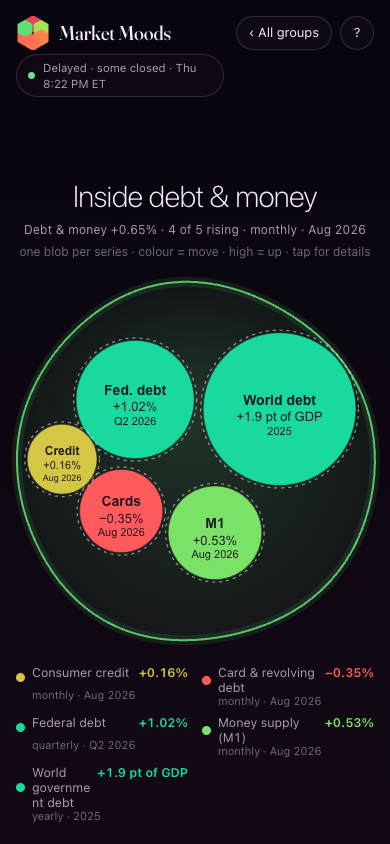
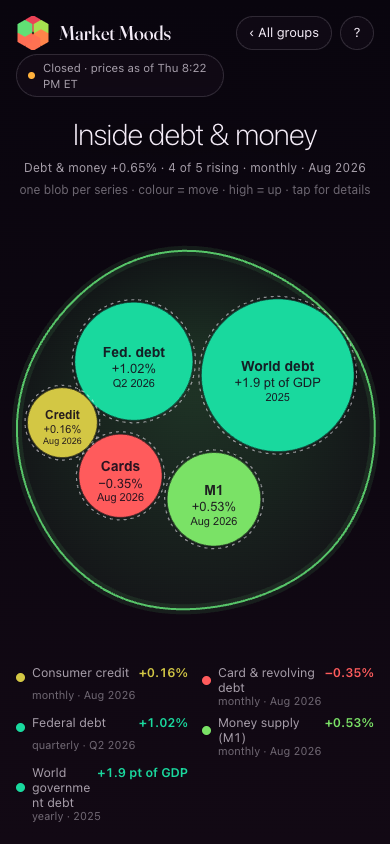
layout: resize overlap fix part 1 (Clark 10-08) — shared Mood.dodge label floor, short/wide header rule, economy per-group fields, lane-capped thumb floor, crest filter baked for WebKit; overlap sweep leg in browser-check (320→1920/40px + short windows)
Panel 5/8/6 FAIL: stage labels still land on neighbour blobs at 560–880 and 844x390; card names truncate at 641–900. Fixture day-drift red predates this (same on HEAD).

Changed region(s): [[0.0308, 0.154, 0.9846, 0.7701], [0.1231, 0.0616, 0.5231, 0.1232], [0.0615, 0.0616, 0.0923, 0.0924]]

diff --git a/index.html b/index.html
@@ -32,13 +32,16 @@
   body.incell canvas#lamp { visibility: hidden; }
   body.incell canvas#cell { pointer-events: auto; }
   body.incell .mood, body.incell .tags, body.incell .readouts { display: none; }
-  .chrome { position: fixed; inset: 0; pointer-events: none; transition: opacity .6s ease; }
+  /* LAYOUT (Clark 10-08 "everything overlaps" when a laptop window is resized): header, mood caption, stage and footer
+     STACK in one column, each taking its real height, so no block can sit on another at any width or height.
+     The lamp reads the stage between them (travel()). Was: each block absolutely placed at a guessed top: 11% / 180px. */
+  .chrome { position: fixed; inset: 0; pointer-events: none; display: flex; flex-direction: column; transition: opacity .6s ease; }
   body.bare .chrome { opacity: 0; }
   body.bare .chrome * { pointer-events: none !important; }
   .chrome > * { pointer-events: auto; }
   .num { font-variant-numeric: tabular-nums; }
 
-  header { position: absolute; top: 0; left: 0; right: 0; display: flex; align-items: flex-start; justify-content: space-between;
+  header { position: relative; flex: none; display: flex; align-items: flex-start; justify-content: space-between;
     gap: 12px; padding: max(16px, env(safe-area-inset-top)) 16px 0; pointer-events: none; }
   header > * { pointer-events: auto; }
   .brand { display: flex; flex-direction: column; gap: 6px; min-width: 0; }
@@ -50,12 +53,12 @@
   .brand .tag { font-size: 11px; font-weight: 500; letter-spacing: .22em; text-transform: uppercase; color: var(--ink-3); margin-top: -2px; }
   .credit { display: flex; align-items: center; gap: 12px; flex: 1 1 auto; min-width: 0; justify-content: center; text-align: left;
     padding: 2px 8px 0; font-size: 14px; line-height: 1.3; color: var(--ink-2); text-decoration: none; }
-  .credit img { height: 60px; width: auto; flex: none; filter: invert(1) brightness(1.2); }
+  .credit img { height: 60px; width: auto; flex: none; }   /* the crest file is light ink already: a CSS filter drew it black in WebKit (10-08) */
   .credit span { max-width: 34ch; text-decoration: underline; text-decoration-color: var(--ink-3); text-underline-offset: 3px; }
   .credit:hover span, .credit:focus-visible span { color: var(--ink); text-decoration-color: var(--ink); }
   .credit:focus-visible { outline: 2px solid var(--ink); outline-offset: 2px; border-radius: 6px; }
   body.incell .credit { display: none; }
-  @media (max-width: 900px) { header { flex-wrap: wrap; } .brand { flex: 1 1 0; } .tools { flex: none; } .status { white-space: normal; }
+  @media (max-width: 900px) { header { flex-wrap: wrap; } .brand { flex: 1 1 0; min-width: min-content; } .tools { flex: none; } .status { white-space: normal; }
     .credit { order: 3; flex-basis: 100%; justify-content: flex-start; padding: 6px 0 0; font-size: 12px; } .credit img { height: 48px; } .credit span { max-width: none; } }
   @media (max-width: 520px) { .brand .mark { width: 34px; height: 34px; } .brand h1 { font-size: 20px; white-space: nowrap; } .brand .tag { display: none; } .brand { gap: 4px; } .credit img { height: 44px; } .credit { font-size: 12px; } }
   .status { display: inline-flex; align-items: center; gap: 8px; font-size: 12.5px; color: var(--ink-2);
@@ -74,7 +77,7 @@
   .btn:focus-visible { outline: 2px solid var(--ink); outline-offset: 2px; }
   .btn svg { width: 14px; height: 14px; fill: currentColor; }
 
-  .mood { position: absolute; left: 0; right: 0; top: 11%; text-align: center; pointer-events: none; }
+  .mood { position: relative; flex: none; margin-top: clamp(4px, 2.5vh, 28px); text-align: center; pointer-events: none; }
   .mood .word { font-size: clamp(38px, 7vw, 76px); font-weight: 200; letter-spacing: -.02em; line-height: 1;
     text-shadow: 0 2px 30px rgba(0, 0, 0, .5); transition: color 1.2s ease; }
   .mood .sub { margin-top: 10px; font-size: 13px; color: var(--ink-2); letter-spacing: .04em; }
@@ -91,9 +94,9 @@
   .fam span { position: absolute; transform: translate(-50%, 0); font-size: 12px; letter-spacing: .16em; text-transform: uppercase; color: var(--ink); opacity: .9; white-space: nowrap;
     padding-bottom: 4px; border-bottom: 1px solid rgba(255, 255, 255, .14); }
   .fam.stacked { display: none; }   /* phone: the two rows split stocks (top) from the economy (bottom); a caption there hit the index labels */
-  @media (max-width: 480px) { .tags span.econ { white-space: normal; max-width: 12.5vw; font-size: 9.5px; letter-spacing: 0; line-height: 1.15; text-align: center; } }   /* fits its 1/8 lane: no label leans on a neighbour, so none is pushed down */   /* "CENTRAL BANKS" wraps inside its lane, never into a neighbour */
+  .tags[data-lanes] span.econ { white-space: normal; max-width: 12.5vw; font-size: min(9.5px, 2.43vw); letter-spacing: 0; line-height: 1.15; text-align: center; }   /* [data-lanes] = the JS's 8-lane phone layout (fam.stacked), not a guessed width: fits its 1/8 lane: no label leans on a neighbour, so none is pushed down */   /* "CENTRAL BANKS" wraps inside its lane, never into a neighbour */
   body.incell .fam { display: none; }
-  .cellcap { position: absolute; left: 0; right: 0; top: 11%; text-align: center; pointer-events: none; display: none; }
+  .cellcap { position: relative; flex: none; margin-top: clamp(4px, 2.5vh, 28px); text-align: center; pointer-events: none; display: none; }
   body.incell .cellcap { display: block; }
   .cellcap .word { font-size: clamp(30px, 5.4vw, 58px); font-weight: 200; letter-spacing: -.02em; line-height: 1.05;
     text-shadow: 0 2px 30px rgba(0, 0, 0, .5); }
@@ -146,7 +149,7 @@
   .tags span { position: absolute; transform: translate(-50%, 0); font-size: 11px; letter-spacing: .08em; text-transform: uppercase;
     color: var(--ink); white-space: nowrap; transition: bottom .25s linear; visibility: hidden; text-shadow: 0 1px 6px rgba(0, 0, 0, .8); }   /* r6: stock labels in full ink; economy labels wear their blob's tint */
 
-  footer { position: absolute; left: 0; right: 0; bottom: 0; padding: 0 16px max(16px, env(safe-area-inset-bottom)); }
+  footer { position: relative; flex: none; margin-top: auto; padding: 0 16px max(16px, env(safe-area-inset-bottom)); }
   .days { display: flex; gap: 6px; margin-bottom: 10px; flex-wrap: wrap; }
   .days[hidden] { display: none; }
   .btn[hidden] { display: none; }
@@ -211,14 +214,12 @@
     .idx .chop { display: none; }
     .idx .look { padding: 3px 8px; font-size: 11.5px; }
     .btn .lbl { display: none; }
-    .mood { top: max(15%, 180px); }
     .mood .key { font-size: 11px; }
     .mood .key .long { display: none; }
     .mood .key .short { display: inline; }
     .idx .long { display: none; }
     .idx .short { display: inline; }
     .status { font-size: 11.5px; }
-    .cellcap { top: max(12%, 150px); }
     .cellcap .sub { font-size: 12px; }
     .cellcap .key { font-size: 11px; }
     .cellcap .key .long { display: none; }
@@ -226,6 +227,16 @@
     .cellctl { gap: 6px 12px; }
     .btn.opt { padding: 0 9px; }
   }
+  /* a short window (phone on its side, a small laptop window): the header and caption give the stage room, so the
+     blobs never sit on the words. One rule for both pages, keyed on height. */
+  @media (max-height: 600px) { header { padding-top: max(10px, env(safe-area-inset-top)); } .brand .mark { width: 30px; height: 30px; } .brand h1 { font-size: 20px; }
+    .brand .tag { display: none; } .credit { font-size: 11.5px; } .credit img { height: 32px; } .credit span { max-width: none; }
+    .mood, .cellcap { margin-top: 2px; } .mood .word, .cellcap .word { font-size: 30px; } .mood .key, .cellcap .key { display: none; } .mood .sub, .cellcap .sub { margin-top: 4px; } }
+  @media (max-height: 600px) and (min-width: 700px) { .brand { flex: none; } .credit { order: 0; flex: 1 1 0; flex-basis: 0; padding: 0 8px; justify-content: center; } }   /* the credit beside the brand, not a row of its own */
+  @media (max-height: 600px) { .timeline { margin: 19px 0 8px; } .days { margin-bottom: 4px; } }
+  @media (max-height: 600px) and (min-width: 641px) {   /* short and wide: each index row is ONE line (name · move · door), the stage gets the height; the level is in its details panel */
+    .idx { grid-template-columns: minmax(0, 1fr) auto auto; } .idx .lvl, .idx .chop { display: none; } .idx .look { grid-column: 3; grid-row: 1; }
+    .idx .long { display: none; } .idx .short { display: inline; } .idx.hasdoor .look { display: none; } }   /* short names; the row itself is the door (same canOpen gate), so the name keeps its room */
 </style>
 </head>
 <body>
@@ -628,9 +639,11 @@
 
   // the height band blobs travel in: between the mood caption above and the timeline below,
   // measured from the real layout (phones wrap the caption), in units of canvas height from the floor
+  let stage = [0, innerHeight];   // the stage's top and bottom in client px, as travel() last measured them (labels stay inside)
   function travel(maxR) {
     const H = innerHeight, top = document.querySelector(".mood").getBoundingClientRect().bottom;
     const foot = [$("days"), $("timeline"), $("readouts")].find(el => !el.hidden).getBoundingClientRect().top;
+    stage = [top, foot];
     canvas.dataset.edges = Math.round(top) + "," + Math.round(foot);   // read by browser-check.sh
     const lo = (H - foot) / H + maxR + 0.05;        // + room for the label under the blob
     const hi = 1 - top / H - maxR - 0.01;
@@ -710,8 +723,10 @@
     // Stocks ride the upper row and the economy the lower one, each family spread over the whole width, each with its own up/down band.
     const stacked = econ.length > 0;   // two rows at EVERY width (10-01 ask: two rows, not one long one)
     const EW = 0.6, GAP = econ.length && !stacked ? 0.5 : 0;
-    const laneW = stacked ? aspect / 4 : aspect / (4 + GAP + EW * econ.length);
-    const wE = stacked ? aspect / Math.max(1, econ.length) : laneW * EW, x0E = stacked ? 0 : (4 + GAP) * laneW;
+    // wide: the STOCKS / ECONOMY captions own a left gutter, so lane 0's wax never drifts over them (Clark 10-08 overlap sweep)
+    const gut = stacked && aspect >= 0.8 && fam.w ? (fam.w + 32) / innerHeight : 0;
+    const laneW = stacked ? (aspect - gut) / 4 : aspect / (4 + GAP + EW * econ.length);
+    const wE = stacked ? (aspect - gut) / Math.max(1, econ.length) : laneW * EW, x0E = stacked ? gut : (4 + GAP) * laneW;
     // two rows must fit the free height between the mood block and the timeline: on a wide screen the old 0.095
     // radius filled it with the stocks alone, so cap the radius by that height (phones stay lane-limited).
     const free = travel(0), baseR = Math.min(laneW * 0.34, 0.095, (free[1] - free[0]) * 0.13) * pulseNow;   // the heartbeat: exactly 1 when pulseAmp is 0
@@ -723,7 +738,7 @@
     let n = 0;
     lanes.concat(econ).forEach((L, i) => {
       const isE = i >= 4, w = isE ? wE : laneW, bd = isE ? bandE : bandI;
-      const cx = isE ? x0E + (i - 4 + 0.5) * w : (i + 0.5) * laneW;
+      const cx = isE ? x0E + (i - 4 + 0.5) * w : gut + (i + 0.5) * laneW;
       let low = Infinity;
       const cy = bd[0] + L.h * (bd[1] - bd[0]);
       const amp = 0.55 + 0.45 * Math.min(L.sp, 2.2);
@@ -734,7 +749,7 @@
         const brk = Math.min(1, Math.max(0.05, (L.sp - 0.6) / 1.0));
         const drift = core ? 0 : 0.7 + 1.6 * brk * Math.max(0, Math.sin((L.ph - i * 10) * 0.17 + d.px * 1.7));   // break-away clock shared: equal chop, equal spread
         if (isE && stacked && !core) { balls[n * 3 + 2] = 0; n++; return; }   // phone: a small economy blob stays one clean drop
-        const R = isE ? Math.max(stacked && aspect < 0.8 ? 22 / innerHeight : 0, Math.min(baseR * L.sz * (stacked ? 0.75 : EW), w * (stacked ? 0.36 : 0.3))) : baseR * L.sz;   // phone: a 44px blob, a thumb's target (the shader keeps neighbours from bridging)   // an economy blob never outgrows its narrow lane; offsets scale with the blob
+        const R = isE ? Math.max(stacked && aspect < 0.8 ? Math.min(22 / innerHeight, w * 0.48) : 0, Math.min(baseR * L.sz * (stacked ? 0.75 : EW), w * (stacked ? 0.36 : 0.3))) : baseR * L.sz;   // phone: a 44px blob, a thumb's target (the shader keeps neighbours from bridging)   // an economy blob never outgrows its narrow lane; offsets scale with the blob
         const r = R * d.rr, room = Math.max(0, w * 0.5 - r);   // wax stays in its own lane and band
         const x = cx + clampN(Math.sin(L.ph * d.wx * 2 + d.px) * (core ? (isE && fam.stacked ? 0 : w * 0.06) : R * 0.45 * d.ax * drift) * amp, -room, room);   // phone: a 44px economy blob in a 49px lane holds its x
         const y = clampN(cy + Math.sin(L.ph * d.wy * 2 + d.py) * (core ? 0.02 : R * 1.6 * d.ay * drift) * amp, bd[0], bd[1]);
@@ -752,7 +767,7 @@
     const capY = Math.max(top[0], econ.length ? top[1] : 0) + 0.04;   // both captions on one line, over the tallest wax of either family
     fam.iY = glide(fam.iY, Math.min(capY, free[1] - 0.006));   // never into the mood block above the stage
     // the economy row's shelf: from under its lowest possible label to just over its tallest possible wax (fixed per layout, not per frame)
-    const eR = stacked && aspect < 0.8 ? 22 / innerHeight : Math.min(baseR * 1.4 * 0.75, wE * 0.36) * 1.23;
+    const eR = stacked && aspect < 0.8 ? Math.min(22 / innerHeight, wE * 0.48) : Math.min(baseR * 1.4 * 0.75, wE * 0.36) * 1.23;
     fam.shelf = stacked ? [bandE[0] - eR - 26 / innerHeight, bandE[1] + eR + 10 / innerHeight] : null;
     fam.eY = stacked && !fam.stacked ? fam.shelf[1] : fam.iY;   // wide: the ECONOMY caption sits ON its shelf's top line
     for (; n < N; n++) balls[n * 3 + 2] = 0;   // unused slots: radius 0 adds nothing to the field
@@ -821,15 +836,8 @@
       const w = s.offsetWidth, h = s.offsetHeight || 14, half = w / 2 / W_;
       const laneE = i >= 4 && fam.stacked;   // phone: an economy label is already confined to its 1/8 lane (max-width); no gutter shove, no push below a neighbour
       const g = laneE ? 0 : 24 / W_, x = clampN(L.tagX, half + g, 1 - half - g) * W_;   // a 24px gutter at both edges
-      return { s, l: x - w / 2, r: x + w / 2, h, b: Math.max(0, L.tagY * H_ - (i >= 4 ? h + 4 : 0)), x }; });
-    const placed = [];
-    boxes.forEach((B, i) => { if (!B) return;
-      if (i >= 4 && !fam.stacked) for (let guard = 0; guard < 8; guard++) {
-        const hit = placed.find(P => B.l < P.r + 4 && B.r > P.l - 4 && B.b < P.b + P.h + 2 && B.b + B.h > P.b - 2);
-        if (!hit) break; B.b = Math.max(0, hit.b - B.h - 2);
-        if (B.b === 0) break;
-      }
-      placed.push(B); });
+      return { s, l: x - w / 2, r: x + w / 2, h, b: L.tagY * H_ - (i >= 4 ? h + 4 : 0), x, fixed: i < 4 }; });
+    Mood.dodge(boxes, H_ - stage[1] + 2, H_ - stage[0]);   // never under the footer's top, never into the mood caption
     for (const B of boxes) if (B) { B.s.style.left = (B.x / W_ * 100).toFixed(2) + "%"; B.s.style.bottom = B.b.toFixed(1) + "px"; B.s.style.visibility = "visible"; }
     econ.forEach((L, k) => { const B = boxes[4 + k]; if (B) B.s.style.color = hex(Mood.labelTint(L.col)); });   // r4: an economy label wears its blob's colour (lightened), so a label's row reads at a glance
     // read by economy-check.sh: each economy label's box and its blob's bottom/radius, CSS px from the bottom, this frame
@@ -840,10 +848,12 @@
     // the two family captions (Stocks / Economy): above each family on a wide screen, at the left of each row on a phone
     const fm = $("fam");
     if (fm) { fm.hidden = !econ.length || fam.iY == null;   // never shown before draw() has given it a place
-      fm.classList.toggle("stacked", !!fam.stacked);
-      const [cs, ce] = fm.children;
+      fm.classList.toggle("stacked", !!fam.stacked); tags.toggleAttribute("data-lanes", !!fam.stacked);
+      const [cs, ce] = fm.children; if (!fm.hidden) fam.w = Math.max(cs.offsetWidth, ce.offsetWidth);   // draw() keeps the captions' gutter this wide
       cs.style.left = ce.style.left = fam.stacked ? "16px" : "24px"; cs.style.transform = ce.style.transform = "none";   // r4: each caption heads its row at the left edge, not floating mid-screen among the stocks
-      cs.style.bottom = (fam.iY * 100).toFixed(2) + "%"; ce.style.bottom = (fam.eY * 100).toFixed(2) + "%"; }
+      const cb = [cs, ce].map((c, k) => ({ l: 0, r: c.offsetWidth, h: c.offsetHeight, b: (k ? fam.eY : fam.iY) * H_, fixed: !k }));
+      Mood.dodge(cb, H_ - stage[1] + 2, H_ - stage[0]);   // a squashed stage (phone on its side) put the two captions on one line
+      cs.style.bottom = cb[0].b.toFixed(1) + "px"; ce.style.bottom = cb[1].b.toFixed(1) + "px"; }
     $("moodWord").textContent = Mood.moodWord(avgPctShown);
     $("moodWord").style.color = hex(Mood.colour(avgPctShown).map(v => v * 0.35 + 0.65));
     $("moodSub").textContent = "Average move " + fmtPct(avgPctShown);
@@ -1351,7 +1361,8 @@
   window.__mm = { get mode() { return mode; }, get pos() { return pos; }, lanes, get data() { return data; }, gl: !!gl,
                   get inCell() { return inCell; }, cellNodes,
                   blobXY(key) { const H = innerHeight, L = lanes.concat(econ).find((l, i) => (data.indexes[i] ? data.indexes[i].key : l.key) === key);   // browser checks: where a blob is NOW, in client px
-                                return L && L.hx != null ? { x: L.hx * H, y: H - L.hy * H } : null; } };
+                                return L && L.hx != null ? { x: L.hx * H, y: H - L.hy * H } : null; },
+                  blobs() { const H = innerHeight; return inCell ? [] : lanes.concat(econ).map((L, i) => ({ L, own: i >= 4 })).filter(o => o.L.hx != null && o.L.r).map(({ L, own }) => ({ x: L.hx * H, y: H - L.hy * H, r: L.r * H, own })); } };   // own: an economy blob keeps its body to itself (stocks merge by design)   // overlap sweep: every blob's core, client px
 })();
 </script>
 </body>

diff --git a/economy.html b/economy.html
@@ -23,10 +23,13 @@
   body.incell canvas#lamp { visibility: hidden; }
   body.incell canvas#cell { pointer-events: auto; }
   body.incell .mood, body.incell .tags, body.incell .readouts { display: none; }
-  .chrome { position: fixed; inset: 0; pointer-events: none; }
+  /* LAYOUT (Clark 10-08 "everything overlaps" when a laptop window is resized): header, mood caption, stage and footer
+     STACK in one column, each taking its real height, so no block can sit on another at any width or height.
+     The lamp reads the stage between them (travel()). Was: each block absolutely placed at a guessed top: 11% / 180px. */
+  .chrome { position: fixed; inset: 0; pointer-events: none; display: flex; flex-direction: column; }
   .chrome > * { pointer-events: auto; }
   .num { font-variant-numeric: tabular-nums; }
-  header { position: absolute; top: 0; left: 0; right: 0; display: flex; align-items: flex-start; justify-content: space-between;
+  header { position: relative; flex: none; display: flex; align-items: flex-start; justify-content: space-between;
     gap: 12px; padding: max(16px, env(safe-area-inset-top)) 16px 0; pointer-events: none; }
   header > * { pointer-events: auto; }
   .brand { display: flex; flex-direction: column; gap: 6px; min-width: 0; }
@@ -38,12 +41,12 @@
   .brand .tag { font-size: 11px; font-weight: 500; letter-spacing: .22em; text-transform: uppercase; color: var(--ink-3); margin-top: -2px; }
   .credit { display: flex; align-items: center; gap: 12px; flex: 1 1 auto; min-width: 0; justify-content: center; text-align: left;
     padding: 2px 8px 0; font-size: 14px; line-height: 1.3; color: var(--ink-2); text-decoration: none; }
-  .credit img { height: 60px; width: auto; flex: none; filter: invert(1) brightness(1.2); }
+  .credit img { height: 60px; width: auto; flex: none; }   /* the crest file is light ink already: a CSS filter drew it black in WebKit (10-08) */
   .credit span { max-width: 34ch; text-decoration: underline; text-decoration-color: var(--ink-3); text-underline-offset: 3px; }
   .credit:hover span, .credit:focus-visible span { color: var(--ink); text-decoration-color: var(--ink); }
   .credit:focus-visible { outline: 2px solid var(--ink); outline-offset: 2px; border-radius: 6px; }
   body.incell .credit { display: none; }
-  @media (max-width: 900px) { header { flex-wrap: wrap; } .brand { flex: 1 1 0; } .tools { flex: none; } .status { white-space: normal; }
+  @media (max-width: 900px) { header { flex-wrap: wrap; } .brand { flex: 1 1 0; min-width: min-content; } .tools { flex: none; } .status { white-space: normal; }
     .credit { order: 3; flex-basis: 100%; justify-content: flex-start; padding: 6px 0 0; font-size: 12px; } .credit img { height: 48px; } .credit span { max-width: none; } }
   @media (max-width: 520px) { .brand .mark { width: 34px; height: 34px; } .brand h1 { font-size: 20px; white-space: nowrap; } .brand .tag { display: none; } .brand { gap: 4px; } .credit img { height: 44px; } .credit { font-size: 12px; } }
   .status { display: inline-flex; align-items: center; gap: 8px; font-size: 12.5px; color: var(--ink-2);
@@ -60,7 +63,7 @@
   .btn:hover { border-color: rgba(244, 236, 247, .32); }
   .btn:focus-visible { outline: 2px solid var(--ink); outline-offset: 2px; }
   .btn[hidden] { display: none; }
-  .mood, .cellcap { position: absolute; left: 0; right: 0; top: 11%; text-align: center; pointer-events: none; }
+  .mood, .cellcap { position: relative; flex: none; margin-top: clamp(4px, 2.5vh, 28px); text-align: center; pointer-events: none; }
   .cellcap { display: none; }
   body.incell .cellcap { display: block; }
   .mood .word, .cellcap .word { font-size: clamp(30px, 5.4vw, 58px); font-weight: 200; letter-spacing: -.02em; line-height: 1.05;
@@ -109,12 +112,12 @@
      phone's, keyed on height — the footer scrolls so the stage keeps room for the blobs (10-07: a short laptop window) */
   @media (min-width: 700px) and (max-height: 760px) {   /* at 560px tall the stage keeps a ~135px radius and its labels: short cap, no key line, 20vh footer */
     body.incell footer { max-height: 20vh; max-height: 20dvh; overflow-y: auto; }
-    body.incell .cellcap { top: 8%; } body.incell .cellcap .word { font-size: 30px; } body.incell .cellcap .key { display: none; } }
-  footer { position: absolute; left: 0; right: 0; bottom: 0; padding: 0 16px max(16px, env(safe-area-inset-bottom)); }
+    body.incell .cellcap .word { font-size: 30px; } body.incell .cellcap .key { display: none; } }
+  footer { position: relative; flex: none; margin-top: auto; padding: 0 16px max(16px, env(safe-area-inset-bottom)); }
   .notice { text-align: center; color: var(--ink-2); font-size: 14px; display: none; margin: 0 0 10px; }
   .notice.on { display: block; }
   .readouts { display: grid; grid-template-columns: repeat(4, minmax(0, 1fr)); gap: 8px; }   /* r4: 8 groups = two full rows, no orphan */
-  .card { display: grid; grid-template-columns: minmax(0, 1fr) auto; column-gap: 8px; align-items: center; background: var(--glass); border: 1px solid var(--line); border-radius: 12px; padding: 6px 10px; cursor: pointer;   /* mm44: thin rows */
+  .card { min-width: 0; display: grid; grid-template-columns: minmax(0, 1fr) auto; column-gap: 8px; align-items: center; background: var(--glass); border: 1px solid var(--line); border-radius: 12px; padding: 6px 10px; cursor: pointer;   /* mm44: thin rows */
     backdrop-filter: blur(12px); -webkit-backdrop-filter: blur(12px); min-width: 0; color: inherit; font: inherit; text-align: left; }
   .card .name { display: flex; align-items: center; gap: 7px; font-size: 12px; color: var(--ink-2); white-space: nowrap; overflow: hidden; text-overflow: ellipsis; }
   .card .chip { width: 9px; height: 9px; border-radius: 50%; flex: none; background: var(--ink-3); }
@@ -139,7 +142,6 @@
   dialog .close { margin-top: 16px; width: 100%; }
   @media (max-width: 640px) {
     .readouts { gap: 5px; }
-    .mood, .cellcap { top: max(12%, 180px); }
     .card { padding: 5px 6px; border-radius: 10px; grid-template-columns: minmax(0, 1fr); row-gap: 1px; }
     .card .pct { font-size: 13px; grid-column: 1; grid-row: 2; text-align: left; }
     .card .lvl { grid-row: 3; white-space: nowrap; overflow: hidden; text-overflow: ellipsis; }
@@ -154,6 +156,12 @@
     .key .short { display: inline; }
     .status { font-size: 11.5px; }
   }
+  /* a short window (phone on its side, a small laptop window): the header and caption give the stage room, so the
+     blobs never sit on the words. One rule for both pages, keyed on height. */
+  @media (max-height: 600px) { header { padding-top: max(10px, env(safe-area-inset-top)); } .brand .mark { width: 30px; height: 30px; } .brand h1 { font-size: 20px; }
+    .brand .tag { display: none; } .credit { font-size: 11.5px; } .credit img { height: 32px; } .credit span { max-width: none; }
+    .mood, .cellcap { margin-top: 2px; } .mood .word, .cellcap .word { font-size: 30px; } .mood .key, .cellcap .key { display: none; } .mood .sub, .cellcap .sub { margin-top: 4px; } }
+  @media (max-height: 600px) and (min-width: 700px) { .brand { flex: none; } .credit { order: 0; flex: 1 1 0; flex-basis: 0; padding: 0 8px; justify-content: center; } }   /* the credit beside the brand, not a row of its own */
 </style>
 </head>
 <body>
@@ -378,13 +386,14 @@
       uniform vec3 uBgTop; uniform vec3 uBgBot; uniform vec3 uHeat;
       void main(){
         vec2 q = gl_FragCoord.xy / uRes.y;
-        float f = 0.0; vec3 c = vec3(0.0);
+        float f = 0.0, ws = 0.0, fg = 0.0; vec3 c = vec3(0.0);
         for (int i = 0; i < ${NB}; i++) {
           vec2 d = q - uBalls[i].xy; float r = uBalls[i].z;
           float w = r * r / max(dot(d, d), 1e-5); w *= w;
-          f += w; c += uCols[i] * w;
+          ws += w; c += uCols[i] * w;
+          fg += w; if (i - (i / ${DROPS}) * ${DROPS} == ${DROPS - 1}) { f = max(f, fg); fg = 0.0; }
         }
-        c /= max(f, 1e-5);
+        c /= max(ws, 1e-5);   // a group's body is its own drops only (as on the front page's economy row): neighbours never fuse (Clark 10-08)
         float y = gl_FragCoord.y / uRes.y;
         vec3 bg = mix(uBgBot, uBgTop, smoothstep(0.0, 1.0, y));
         bg += uHeat * 0.22 * pow(1.0 - y, 3.0);
@@ -414,8 +423,10 @@
   }
   addEventListener("resize", resize); resize();
   const balls = new Float32Array(NB * 3), cols = new Float32Array(NB * 3);
+  let stage = [0, innerHeight];   // the stage's top and bottom in client px, as travel() last measured them (labels stay inside)
   function travel(maxR) {
     const H = innerHeight, top = $("mood").getBoundingClientRect().bottom, foot = $("readouts").getBoundingClientRect().top;
+    stage = [top, foot];
     canvas.dataset.edges = Math.round(top) + "," + Math.round(foot);
     const lo = (H - foot) / H + maxR + 0.05, hi = 1 - top / H - maxR - 0.01;
     return hi > lo ? [lo, hi] : [(lo + hi) / 2, (lo + hi) / 2];
@@ -425,7 +436,8 @@
     // phone: two rows of four (r3: eight lanes of 49px left ~35px blobs, a clipped edge blob and the stage half empty)
     const pad = 24 / innerHeight;   // r4: the edge lanes keep a 24px gutter, like the labels
     const lay = rows => { const per = Math.ceil(lanes.length / rows), laneW = (aspect - 2 * pad) / Math.max(1, per);
-      const baseR = Math.min(laneW * 0.34, 0.095), maxR = Math.min(baseR * 1.4, laneW * 0.36) * 1.25;   // the biggest blob that can be drawn (R is lane-capped below), not one that can't
+      // a short stage (phone on its side, 390px tall) shrinks the blobs to fit between the caption and the tiles (Clark 10-08)
+      const free = travel(0), baseR = Math.min(laneW * 0.34, 0.095, Math.max(0.02, (free[1] - free[0] - 0.06) / 3.5)), maxR = Math.min(baseR * 1.4, laneW * 0.36) * 1.25;   // the biggest blob that can be drawn (R is lane-capped below), not one that can't
       const band = travel(maxR); return { rows, per, laneW, baseR, maxR, band, t: rows === 2 ? (band[1] - band[0] - 2 * maxR - 0.05) / 2 : 0 }; };   // row gap: a blob over a blob plus a label
     let Ly = aspect < 0.8 && lanes.length > 4 ? lay(2) : lay(1);
     if (Ly.rows === 2 && Ly.t < 0.03) Ly = lay(1);   // a screen too short for two rows that can move: one row (never two rows stacked on one line)
@@ -650,20 +662,14 @@
     });
     const tags = $("tags");
     const ws = lanes.map((L, i) => tags.children[i] ? tags.children[i].offsetWidth : 0), hs = lanes.map((L, i) => tags.children[i] ? tags.children[i].offsetHeight : 0);   // read every size first, then write
-    lanes.forEach((L, i) => { if (L.tagX == null || !tags.children[i]) return; const s = tags.children[i];
-      const half = ws[i] / 2 / innerWidth, g = 24 / innerWidth;   // a 24px gutter: no label runs to the screen edge
-      s.style.left = (Math.min(1 - half - g, Math.max(half + g, L.tagX)) * 100).toFixed(2) + "%"; s.style.bottom = Math.max(0, L.tagY * innerHeight - hs[i] - 4).toFixed(1) + "px"; s.style.visibility = "visible";
-      s.style.color = hex(Mood.labelTint(L.col)); });   // r6: a label hangs its top 4px under ITS blob and wears the blob's tint (as on the front page)
-    // a label that would touch one already placed drops below it (narrow phones: 7 labels in 390px)
-    const placed = [];
-    for (const s of tags.children) { if (s.style.visibility !== "visible") continue;
-      let r = s.getBoundingClientRect();
-      for (let k = 0; k < 6; k++) {
-        const hit = placed.find(P => r.left < P.right + 4 && r.right > P.left - 4 && r.top < P.bottom + 2 && r.bottom > P.top - 2);
-        if (!hit) break;
-        s.style.bottom = Math.max(0, innerHeight - hit.bottom - r.height - 2) + "px"; r = s.getBoundingClientRect();
-      }
-      placed.push(r); }
+    const boxes = lanes.map((L, i) => { if (L.tagX == null || !tags.children[i]) return null;
+      const half = ws[i] / 2 / innerWidth, g = 24 / innerWidth, x = Math.min(1 - half - g, Math.max(half + g, L.tagX)) * innerWidth;   // a 24px gutter: no label runs to the screen edge
+      return { s: tags.children[i], x, l: x - ws[i] / 2, r: x + ws[i] / 2, h: hs[i], b: L.tagY * innerHeight - hs[i] - 4 }; });   // r6: a label hangs its top 4px under ITS blob
+    // a label that would touch one already placed drops below it, or above it at the footer (narrow phones: 7 labels in 390px)
+    Mood.dodge(boxes, innerHeight - stage[1] + 2, innerHeight - stage[0]);
+    lanes.forEach((L, i) => { const B = boxes[i]; if (!B) return;
+      B.s.style.left = (B.x / innerWidth * 100).toFixed(2) + "%"; B.s.style.bottom = B.b.toFixed(1) + "px"; B.s.style.visibility = "visible";
+      B.s.style.color = hex(Mood.labelTint(L.col)); });   // and wears the blob's tint (as on the front page)
     // read by economy-check.sh: each label's top and its blob's lowest wax (px from the bottom), and the label's luminance
     tags.dataset.geo = JSON.stringify(lanes.map((L, i) => { const s = tags.children[i]; if (!s || L.low == null) return null; const r = s.getBoundingClientRect(), c = getComputedStyle(s).color.match(/[\d.]+/g).map(v => v / 255);
       return [Math.round(innerHeight - r.top), Math.round(L.low * innerHeight), +((0.2126 * c[0] + 0.7152 * c[1] + 0.0722 * c[2]) * (c.length > 3 ? c[3] * 255 : 1)).toFixed(3)]; }));   // alpha counts: a 66% grey is dim
@@ -732,7 +738,8 @@
   // browser-check hook: where each blob is right now, in client px (panel-check.sh clicks there)
   window.__em = { get inCell() { return inCell; }, groupXY(key) { const H = innerHeight, i = G.findIndex(g => g.key === key), L = lanes[i];
                     return L && L.hx != null ? { x: L.hx * H, y: H - L.hy * H } : null; },
-                  memberXY(key) { const N = nodes.get(key); return N && N.dx != null ? { x: N.dx, y: N.dy } : null; } };
+                  memberXY(key) { const N = nodes.get(key); return N && N.dx != null ? { x: N.dx, y: N.dy } : null; },
+                  blobs() { const H = innerHeight; return inCell ? [] : lanes.filter(L => L.hx != null && L.r).map(L => ({ x: L.hx * H, y: H - L.hy * H, r: L.r * H, own: true })); } };   // overlap sweep: every blob's core, client px
 })();
 </script>
 </body>

diff --git a/mood.js b/mood.js
@@ -222,7 +222,25 @@
     return t.map(v => v + (1 - v) * k);
   }
 
-  const api = { colour, labelTint, height, size, choppiness, speed, chopWord, moodWord, marketState, priceAt,
+  // labels that would touch: boxes in CSS px measured from the window bottom {l, r, b, h, fixed}. In order, a movable
+  // label that touches one already placed tries just below it, and if that would cross the floor (the footer's top)
+  // just above it instead; every label stays between floor and ceil. Both pages place their labels with it
+  // (Clark 10-08: a label pushed below its neighbour had no floor and sat on the day buttons).
+  function dodge(boxes, floor, ceil) {
+    const placed = [], clamp = B => { B.b = Math.max(floor, Math.min(ceil - B.h, B.b)); };
+    const touch = B => placed.find(P => B.l < P.r + 4 && B.r > P.l - 4 && B.b < P.b + P.h + 2 && B.b + B.h > P.b - 2);
+    boxes.forEach(B => { if (!B) return; clamp(B);
+      if (!B.fixed) for (let guard = 0, up = false; guard < 12; guard++) {
+        const hit = touch(B); if (!hit) break;
+        const below = hit.b - B.h - 2;
+        if (!up && below >= floor) B.b = below; else { up = true; B.b = hit.b + hit.h + 2; }
+        clamp(B);
+      }
+      placed.push(B); });
+    return boxes;
+  }
+
+  const api = { colour, labelTint, dodge, height, size, choppiness, speed, chopWord, moodWord, marketState, priceAt,
                 against, radii, movePct, heightIn, TYPICAL_5M, normSector, sectorRank, SECTOR_ORDER,
                 fear, fearWord, volumeLevel, pulseAmp, volumeWord, avgSeries, sectorHue, sectorShort, scrubPos,
                 econMove, econChop, econSlow, econGroupPct, econAsOf };

diff --git a/check.js b/check.js
@@ -317,4 +317,12 @@ ok(M.econSlow({ freq: "monthly" }) && M.econSlow({ freq: "weekly" }) && !M.econS
   }
   ok(fs.existsSync(path.join(__dirname, "assets/humble_crest.png")), "crest file shipped");
 }
+// Mood.dodge (Clark 10-08 overlap): a label pushed off a neighbour never crosses the floor (the footer's top); it goes above instead
+{ const d = M.dodge([{ l: 0, r: 50, b: 200, h: 14, fixed: true }, { l: 10, r: 60, b: 195, h: 14 }], 190, 600);
+  ok(d[1].b === 216, "dodge: no room below the floor -> the label sits just above its neighbour");
+  const e = M.dodge([{ l: 0, r: 50, b: 300, h: 14, fixed: true }, { l: 10, r: 60, b: 295, h: 14 }], 190, 600);
+  ok(e[1].b === 284, "dodge: room below -> the label drops just under its neighbour");
+  ok(M.dodge([{ l: 0, r: 50, b: 40, h: 14 }], 179, 600)[0].b === 179 && M.dodge([{ l: 0, r: 50, b: 700, h: 14 }], 0, 600)[0].b === 586, "dodge: every label stays between floor and ceiling");
+  const f = M.dodge([{ l: 0, r: 50, b: 300, h: 14, fixed: true }, { l: 100, r: 150, b: 300, h: 14 }], 0, 600);
+  ok(f[1].b === 300, "dodge: a label that touches nothing does not move"); }
 console.log(`✓ market-moods check: ${n} asserts`);
